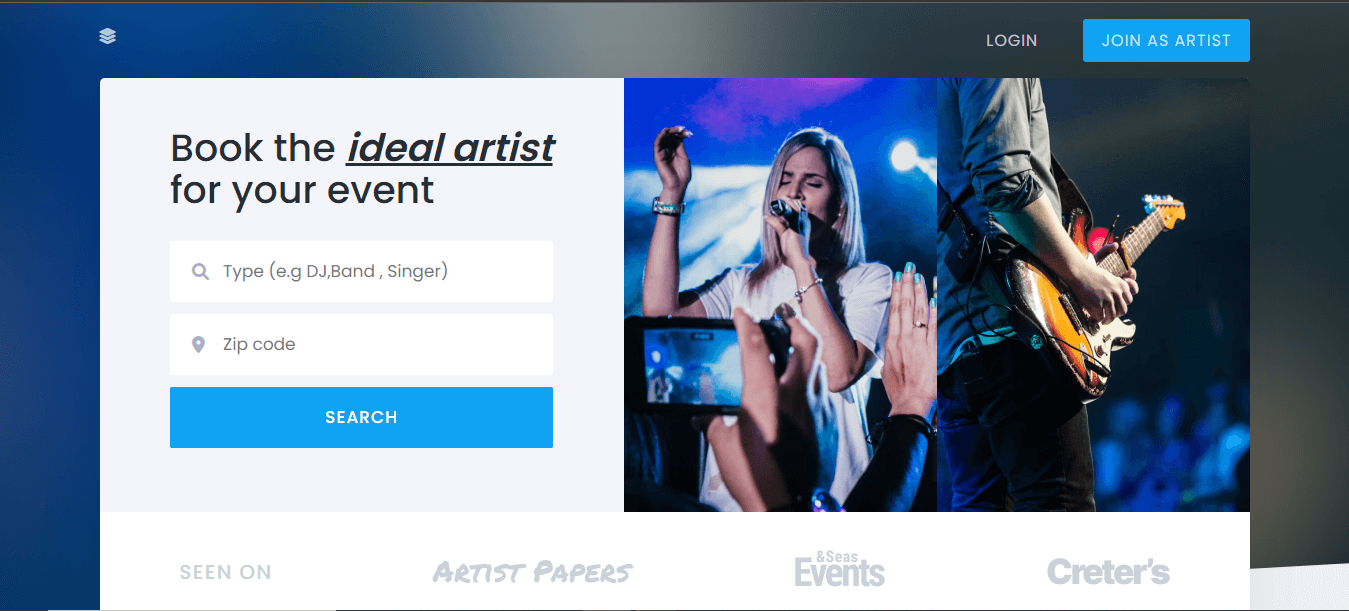
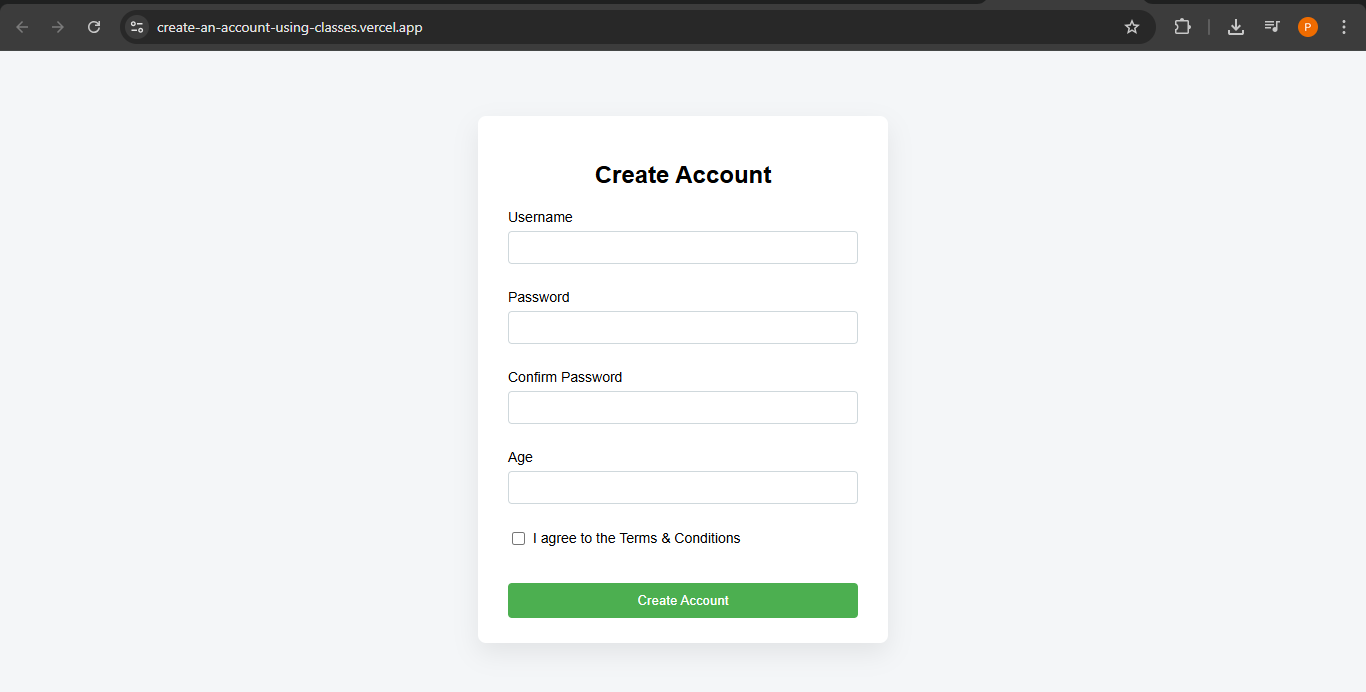
updating my portfolio

diff --git a/index.html b/index.html
@@ -66,19 +66,19 @@
             <div class="grid_project">
                 <div class="grid_project_paragraph_dormant">
                     <p>Project 1</p>
-                    <h3>My Website PortFolio</h3>
+                    <h3>Product List with Card, Dynamic UI updates and state management</h3>
                 </div>
-                <a href="index.html">
+                <a href="https://github.com/Descieux360/Product-List-with-cards-Frontend-Mentor-" target="_blank">
                     <img src="assets/images/project1.PNG" alt="project_image">
                 </a>
             </div>
             <div class="grid_project">
                 <div class="grid_project_paragraph_dormant">
                     <p>Project2</p>
-                    <h3>Evento ,Find and Book Events</h3>
+                    <h3>JavaScript Form Validator/h3>
                 </div>
-                <a href="https://github.com/Descieux360/Course.git">
-                    <img src="assets/images/project2.png" alt="project_image">
+                <a href="https://github.com/Descieux360/Form-exercise-" target="_blank">
+                    <img src="assets/images/project2.jpg" alt="project_image">
                 </a>
             </div>
             <div class="grid_project">
@@ -86,25 +86,25 @@
                     <p>Project3</p>
                     <h3>This Is my Youtube Clone</h3>
                 </div>
-                <a href="https://github.com/Descieux360/Youtube_clone.git">
+                <a href="https://github.com/Descieux360/Youtube_clone.git" target="_blank">
                     <img src="assets/images/project3.png" alt="project_image">
                 </a>
             </div>
             <div class="grid_project">
                 <div class="grid_project_paragraph_dormant">
                     <p>Project4</p>
-                    <h3>Book the ideal Artist on Artist Finder</h3>
+                    <h3>Advanced Form Validator Using (ES6)Classes</h3>
                 </div>
-                <a href="https://github.com/Descieux360/Artist-Finder.git">
+                <a href="https://github.com/Descieux360/Create-an-account-using-Classes" target="_blank">
                     <img src="assets/images/project4.png" alt="project_image">
                 </a>
             </div>
             <div class="grid_project">
                 <div class="grid_project_paragraph_dormant">
                     <p>Project5</p>
-                    <h3>This is my Task Manager Project</h3>
+                    <h3>An expense Tracker by logic base lab</h3>
                 </div>
-                <a href="https://github.com/Descieux360/Task_Manager.git">
+                <a href="https://github.com/Descieux360/Expense-tracker-by-Logic-Base-Lab">
                     <img src="assets/images/project5.png" alt="project_image">
                 </a>
             </div>
@@ -135,7 +135,7 @@
                 <div class="skill_container">
                     <div class="skill_title">
                         <h4>HTML5</h4>
-                        <h4>90%</h4>
+                        <h4>100%</h4>
                     </div>
                     <div class="progress_bar">
                         <hr>
@@ -145,7 +145,7 @@
                 <div class="skill_container">
                     <div class="skill_title">
                         <h4>CSS3</h4>
-                        <h4>80%</h4>
+                        <h4>100%</h4>
                     </div>
                     <div class="progress_bar">
                         <hr>
@@ -155,7 +155,17 @@
                 <div class="skill_container">
                     <div class="skill_title">
                         <h4>JavaScript</h4>
-                        <h4>60%</h4>
+                        <h4>90%</h4>
+                    </div>
+                    <div class="progress_bar">
+                        <hr>
+                    </div>
+                </div>
+
+                <div class="skill_container">
+                    <div class="skill_title">
+                        <h4>TypeScrip</h4>
+                        <h4>70%</h4>
                     </div>
                     <div class="progress_bar">
                         <hr>
@@ -165,7 +175,7 @@
                 <div class="skill_container">
                     <div class="skill_title">
                         <h4>React JS</h4>
-                        <h4>70%</h4>
+                        <h4>80%</h4>
                     </div>
                     <div class="progress_bar">
                         <hr>
@@ -199,7 +209,13 @@
                     I am specialized in building responsive and user-friendly websites and applications.
                 </p>
 
-                <p>I am 17years old . I am coding for about 3 years having enough experience
+                <p>
+                    I am currently following a 3 years Software Engineering Bachelor Degree program at the University of Siantou Yaounde.
+                    The programe started in september 2025 and
+                    will end in june 2028.
+                </p>
+
+                <p>I am 19years old. I am coding for about 3 years having enough experience
                      to work effectively on Projects and also crucial skills for the job market</p>
 
                 <p>I contributed to open source project adding a great touch and archievemnet to the global goal. <br>
@@ -228,11 +244,11 @@
                  <h4>linkedin Profile</h4>
                </div>
                <div class="social_media">
-                 <a href="" target="_blank"><i class="fa-brands fa-facebook"></i></a>
+                 <a href="https://github.com/Descieux360/" target="_blank"><i class="fa-brands fa-github"></i></a>
                  <h4> Facebook profile</h4>
                </div>
                <div class="social_media">
-                 <a href="" target="_blank"><i class="fa-solid fa-earth-americas"></i></a>
+                 <a href="philippedescieux.vercel.app" target="_blank"><i class="fa-solid fa-earth-americas"></i></a>
                  <h4>My website</h4>
                </div> 
            </div>

diff --git a/assets/Style/main.css b/assets/Style/main.css
@@ -200,19 +200,23 @@ section{
 }
 
 .skill_container:nth-child(1)  .progress_bar hr{
-    width:90%;
+    width:100%;
 }
 
 .skill_container:nth-child(2)  .progress_bar hr{
-    width:80%;
+    width:100%;
 }
 
 .skill_container:nth-child(3)  .progress_bar hr{
-    width:60%;
+    width:90%;
 }
 
 .skill_container:nth-child(4)  .progress_bar hr{
     width:70%;
+}
+
+.skill_container:nth-child(5)  .progress_bar hr{
+    width:80%;
 }
 
 .programming_language{
